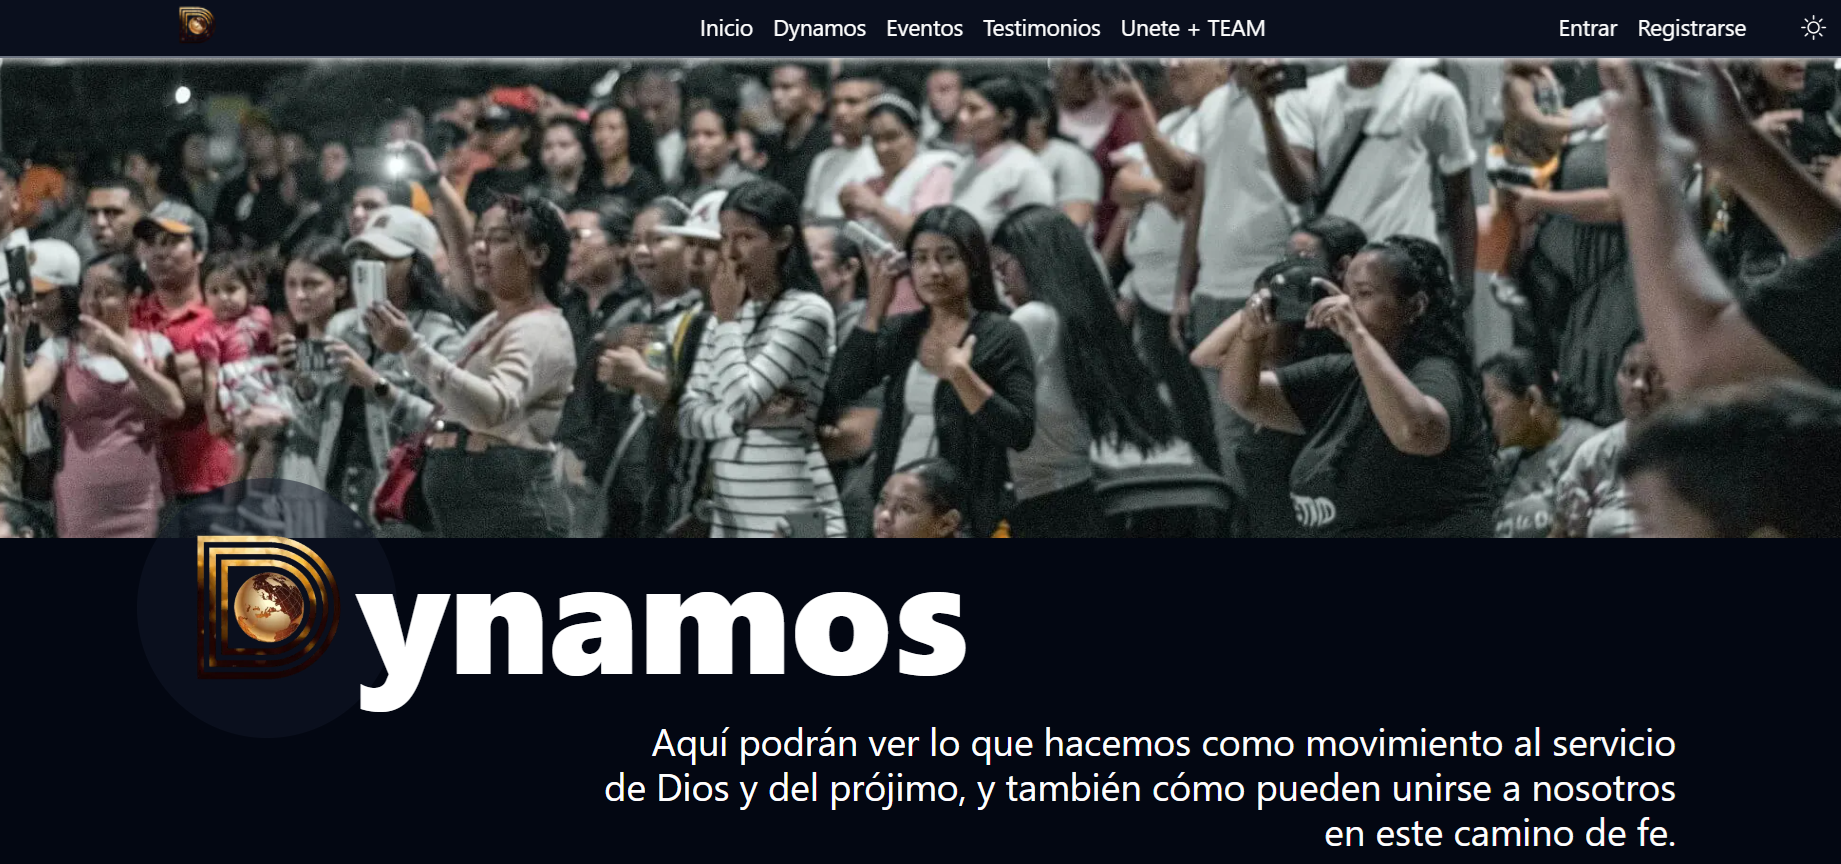
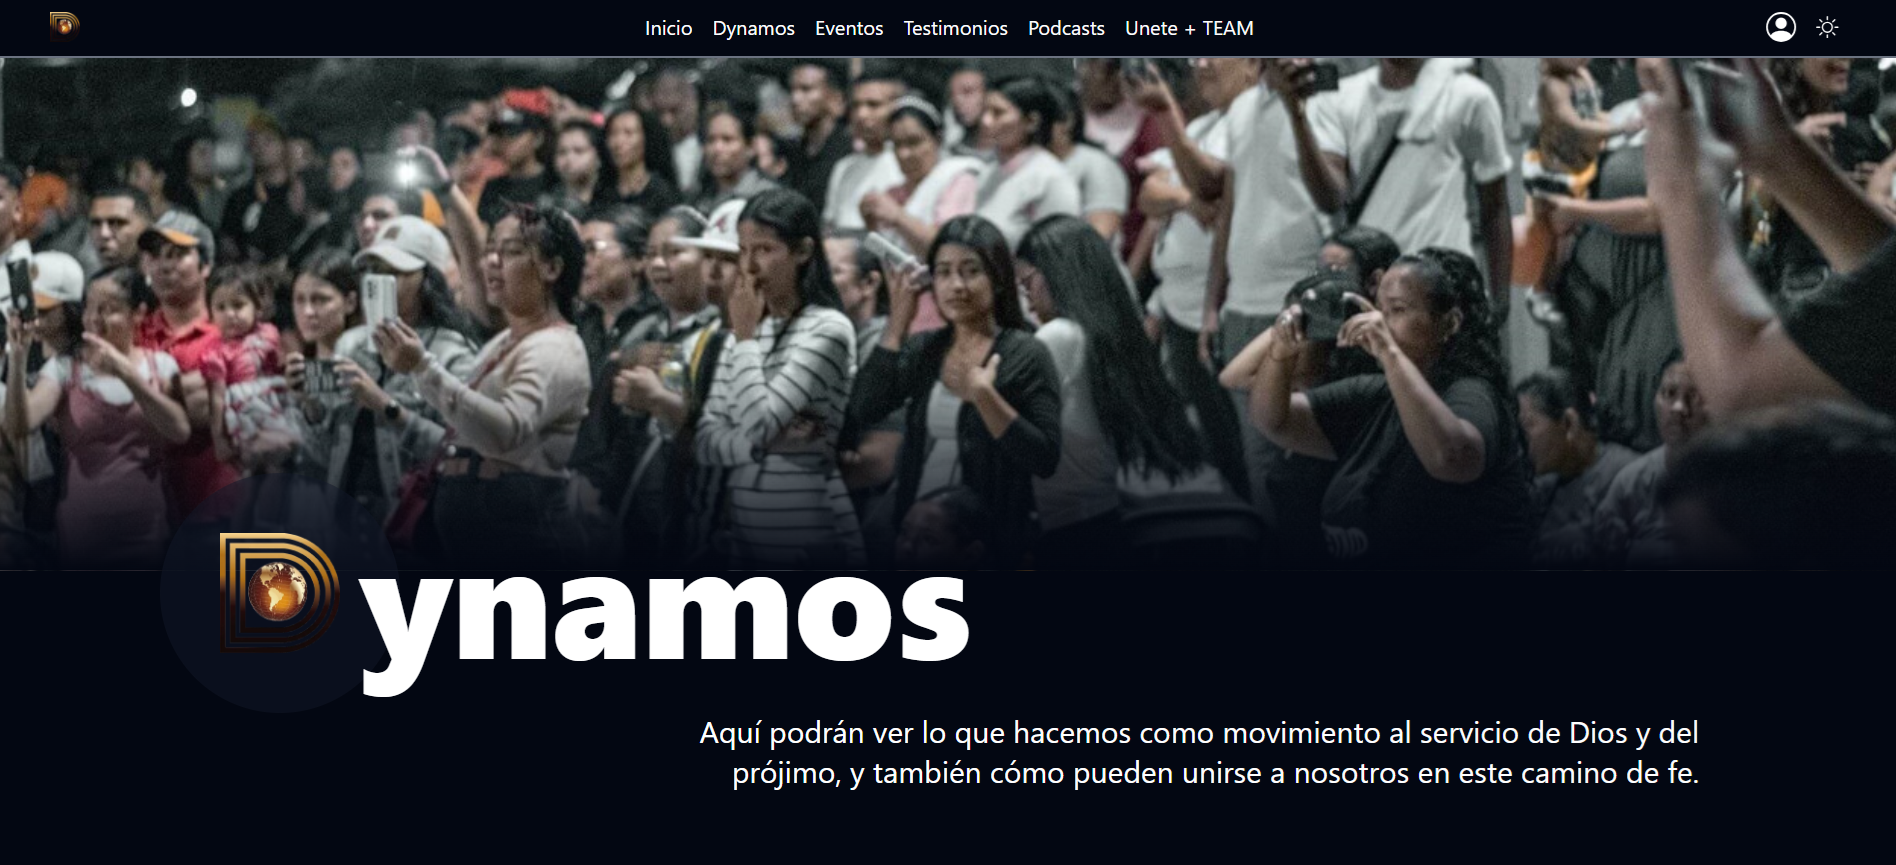
Se actualizo el curriculum vitae, se agrego una nueva imagen, se modificaron algunos componentes y se actualizaron los datos de los proyectos y recursos.

diff --git a/src/data/proyectos.js b/src/data/proyectos.js
@@ -1,22 +1,27 @@
 export const proyectos_terminados = [
   {
+    titulo: "Movimiento Dynamos - Iglesia Cristiana",
+    url: "https://dynamos-rho.vercel.app",
+    imagen: "/pages/dynamos.png",
+    github: "https://github.com/mateodevcode/dynamos",
+  },
+  {
     titulo: "Juego de Tetris",
     url: "https://mateodevcode.github.io/tetris-js",
     imagen: "/pages/tetris.png",
     github: "https://github.com/mateodevcode/tetris-js",
   },
   {
-    // Mejorar en GitHub y desplegar en Vercel
-    titulo: "Las aventuras de Arsene Lupin III",
-    url: "https://mateodevcode.github.io/serie-lupin/",
-    imagen: "/pages/lupin.png",
-    github: "https://github.com/mateodevcode/serie-lupin",
+    titulo: "Peliculas y series - Wonly",
+    url: "https://wonly.vercel.app/",
+    imagen: "/pages/wonly.png",
+    github: "https://github.com/mateodevcode/wonly",
   },
   {
     titulo: "Curriculum Vitae",
-    url: "https://mateodevcode.github.io/curriculum-vitae-react/",
+    url: "https://mateodevcode.github.io/cv-react/",
     imagen: "/pages/curriculum-vitae.png",
-    github: "https://github.com/mateodevcode/curriculum-vitae-react",
+    github: "https://github.com/mateodevcode/cv-react",
   },
   {
     titulo: "Juego Snake 🐍",
@@ -32,12 +37,6 @@ export const proyectos_en_proceso = [
     url: "https://one-second-cybersecurity.vercel.app/",
     imagen: "/pages/one-second.png",
     github: "https://github.com/mateodevcode/one-second-cybersecurity",
-  },
-  {
-    titulo: "Movimiento Dynamos - Iglesia Cristiana",
-    url: "https://dynamos-peach.vercel.app/",
-    imagen: "/pages/dynamos.png",
-    github: "https://github.com/mateodevcode/dynamos",
   },
   {
     titulo: "Jorge Orozco - Diseñador UX/UI",

diff --git a/src/components/portafolio/Proyecto.jsx b/src/components/portafolio/Proyecto.jsx
@@ -23,12 +23,12 @@ const Proyecto = ({ titulo, url, github, imagen }) => {
       <div className="flex flex-row justify-center items-center">
         {github && (
           <Link href={github} target="_blank">
-            <BsGithub className="lg:text-4xl md:text-4xl sm:text-2xl lg:mt-10 md:mt-10 sm:mt-5 mx-2" />
+            <BsGithub className="lg:text-4xl md:text-4xl sm:text-2xl lg:mt-10 md:mt-10 sm:mt-5 mx-2 hover:text-gray-500" />
           </Link>
         )}
         {url && (
           <Link href={url} target="_blank">
-            <TbWorldWww className="lg:text-4xl md:text-4xl sm:text-2xl lg:mt-10 md:mt-10 sm:mt-5 mx-2" />
+            <TbWorldWww className="lg:text-4xl md:text-4xl sm:text-2xl lg:mt-10 md:mt-10 sm:mt-5 mx-2 hover:text-gray-500" />
           </Link>
         )}
       </div>

diff --git a/src/components/footer/Footer.jsx b/src/components/footer/Footer.jsx
@@ -9,14 +9,14 @@ function Footer() {
       </div>
       <div className="text-center text-sm mt-5 mb-10 flex flex-row justify-center items-center">
         <p className="select-none">
-          Desarrollado por{" "}
+        © 2024 Todos los derechos reservados. Desarrollado por{" "}
           <Link
             href={"https://one-second-cybersecurity.vercel.app/"}
             target="_blank"
           >
             <strong className="text-blue-600">One Second CyberSecurity</strong>
           </Link>{" "}
-          © 2024.
+         .
         </p>
       </div>
     </div>

diff --git a/src/components/navbar/recursos/Recursos.jsx b/src/components/navbar/recursos/Recursos.jsx
@@ -15,7 +15,7 @@ const Recursos = ({ onClose }) => {
       >
         Recursos
       </MenuButton>
-      <MenuList className="bg-blue-800 dark:bg-green-900 text-white rounded-md mt-2 w-66">
+      <MenuList className="bg-blue-800 dark:bg-green-900 text-white rounded-md mt-2 w-72">
         {recursos.map((recurso, index) => (
           <MenuItem key={index} className="dark:hover:bg-green-600/20 hover:bg-blue-600/20 rounded-md">
             <Link href={recurso.LinkTo} className="mx-3 my-1 flex flex-row justify-between items-center w-full" onClick={onClose}>

diff --git a/src/data/recursos.navbar.js b/src/data/recursos.navbar.js
@@ -20,9 +20,14 @@ export const recursos = [
     logo: "/logo/logo.png",
   },
   {
-    nombre: "Wonly",
+    nombre: "Peliculas y Series - Wonly",
     LinkTo: "https://wonly.vercel.app",
     logo: "/logo/logo-wonly.png",
+  },
+  {
+    nombre: "Emulador Windows XP",
+    LinkTo: "https://pranx.com/windows-xp-simulator",
+    logo: "/logo/logo.png",
   },
   {
     nombre: "Comunidad",
